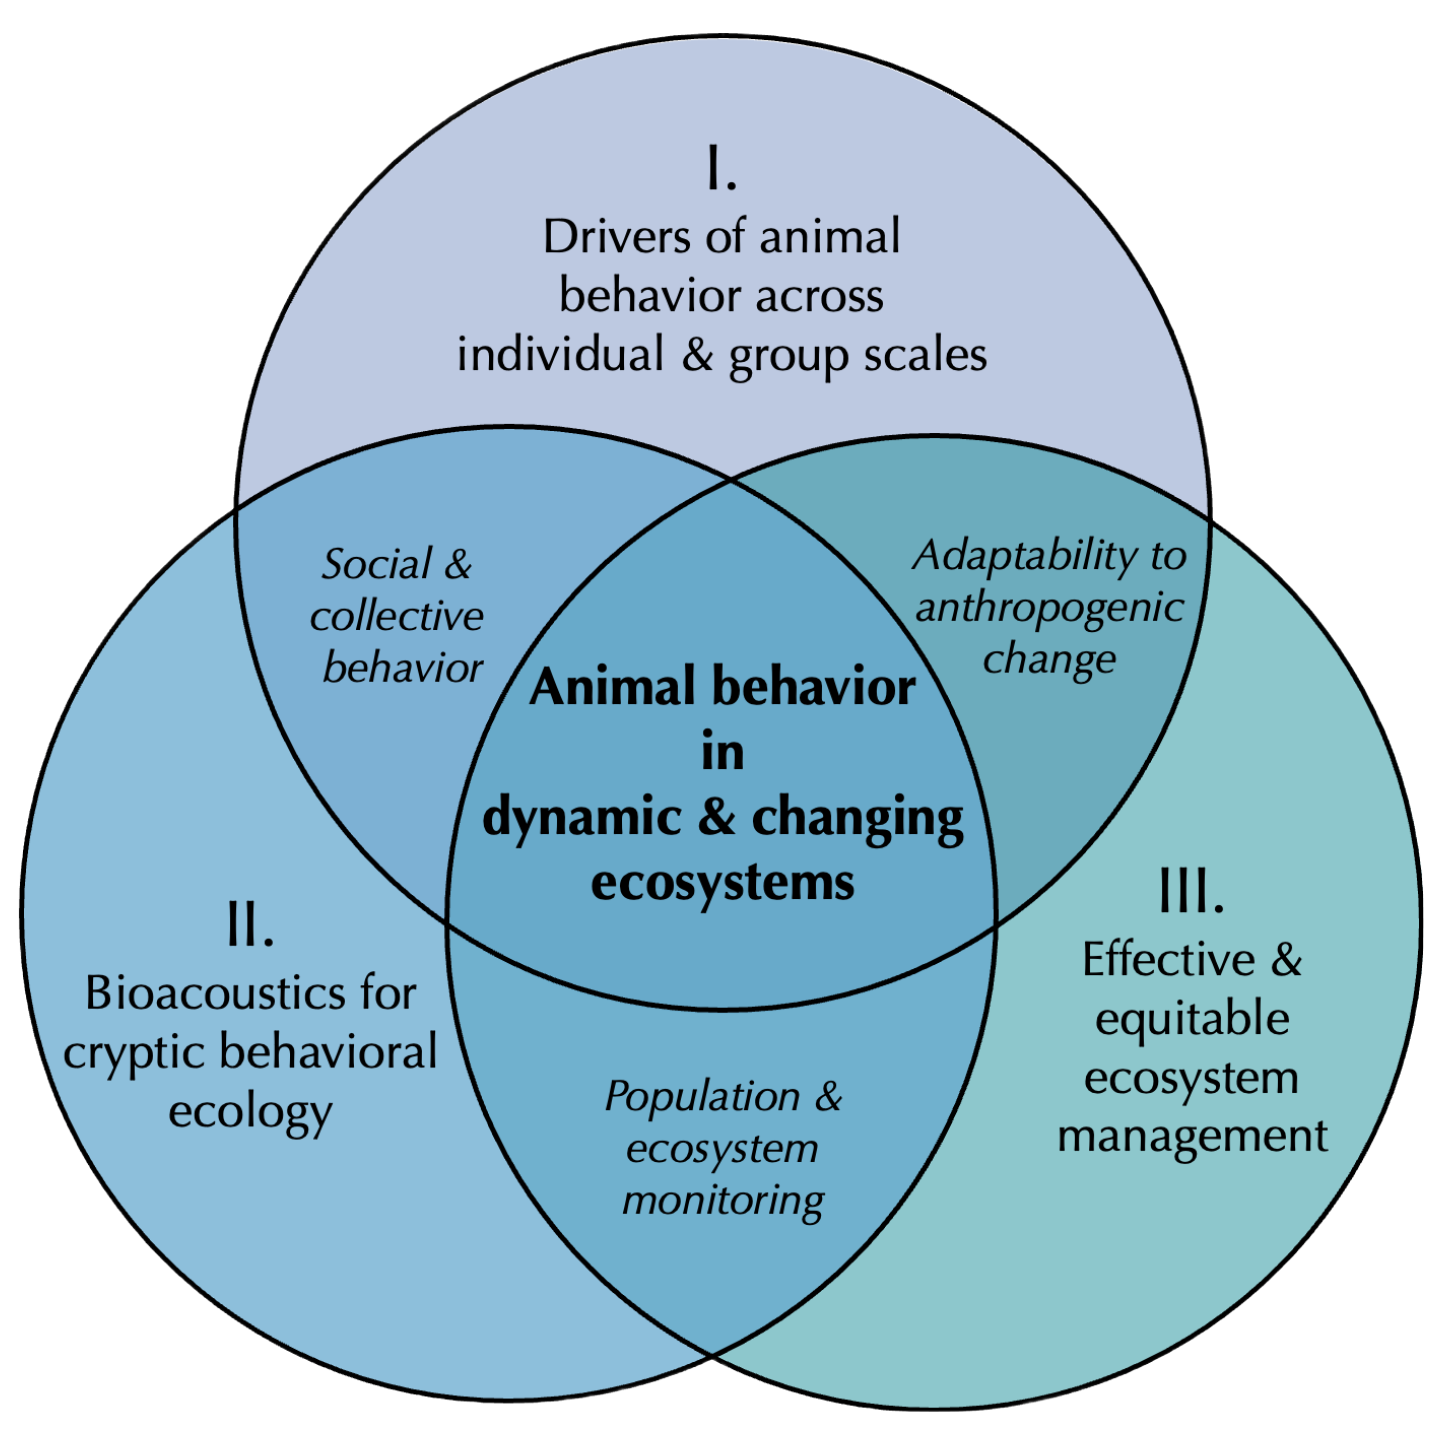
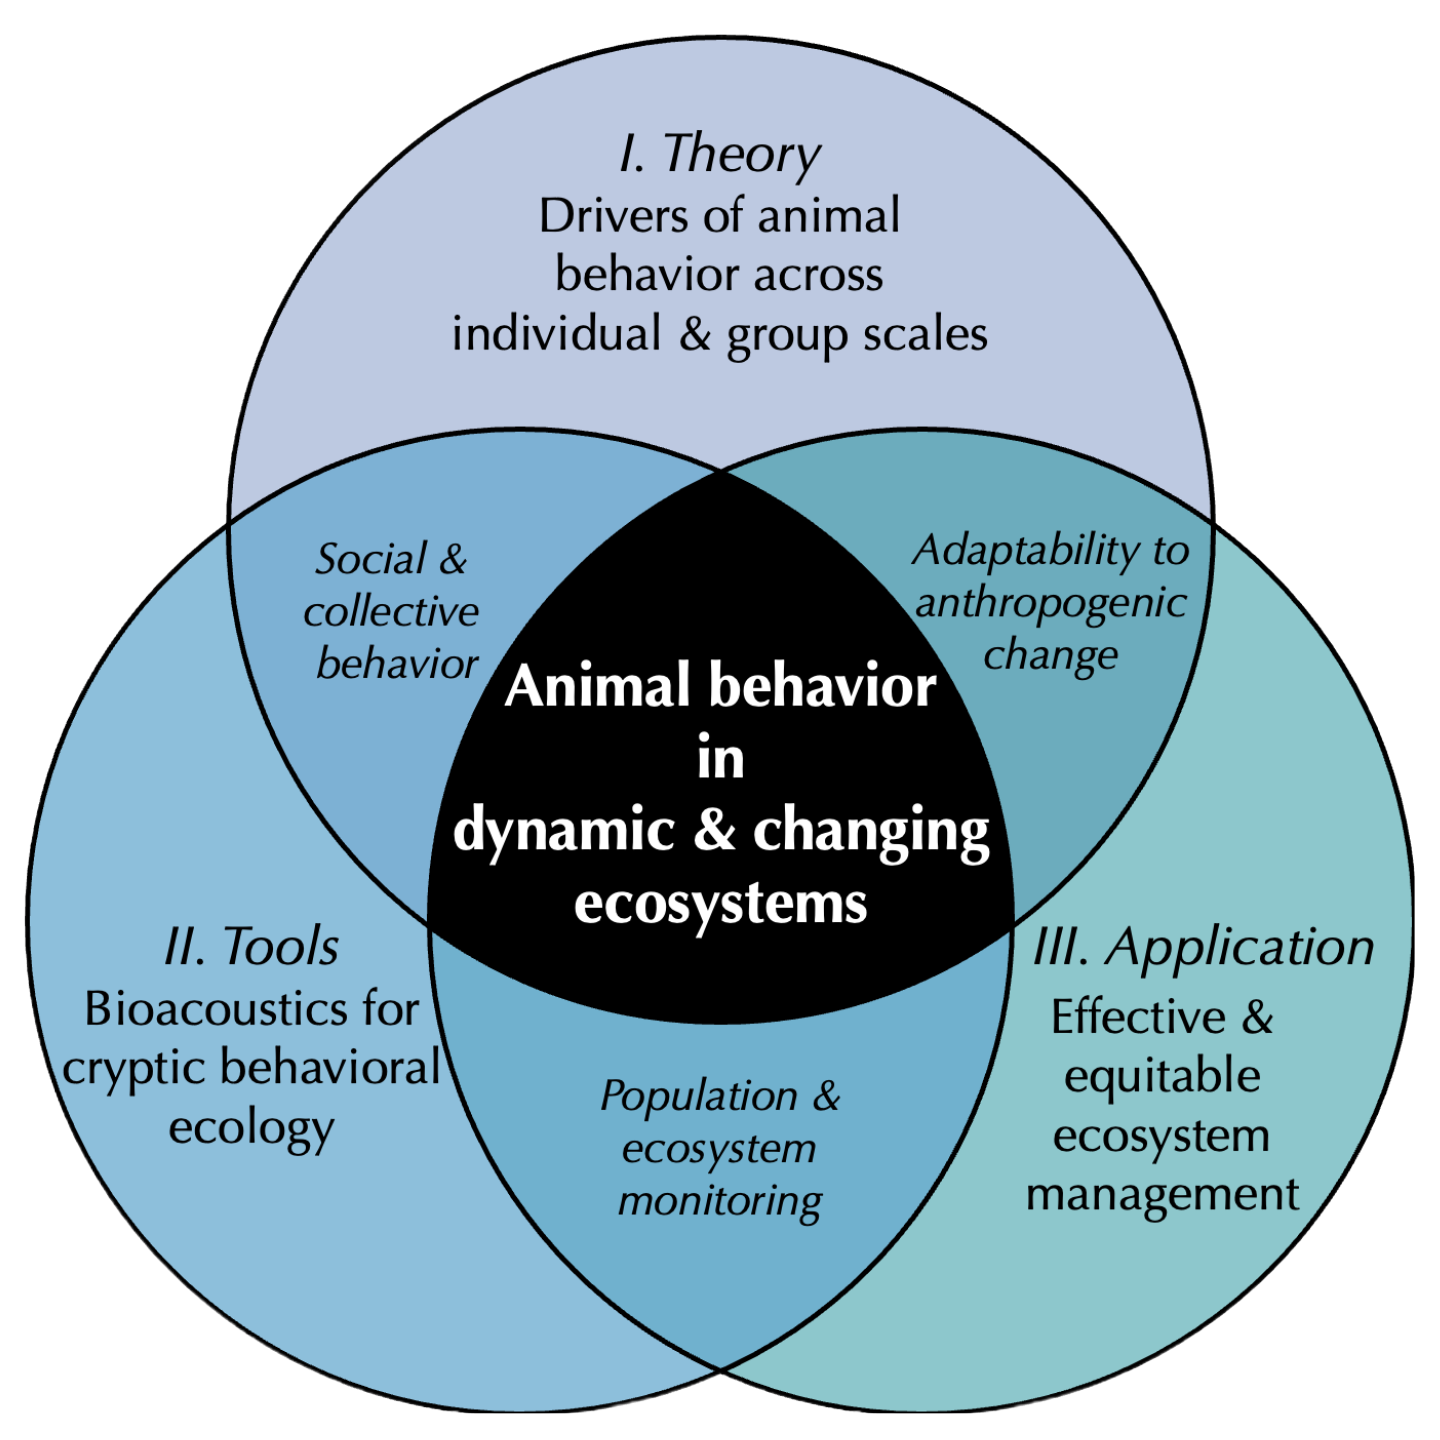
new diagram

diff --git a/content/research.md b/content/research.md
@@ -5,7 +5,7 @@ sidebar:
   show_post_thumbnail: false
 ---
 
-## My research program centers on three (often overlapping) themes:
+## My research program addresses three (often overlapping) themes centered on the study of *Animal behavior in dynamic & changing ecosystems*:
 
 ![diagram](../img/conceptualdiagram_nobg.png)
 
